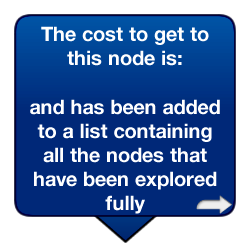
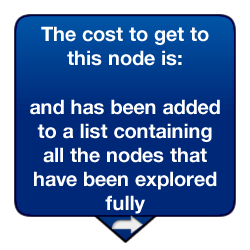
Fixed bug with heuristic in RenderTester

Changed region(s): [[0.784, 0.784, 0.924, 0.868], [0.448, 0.868, 0.588, 0.952]]

diff --git a/core/src/com/b3/gui/RenderTester.java b/core/src/com/b3/gui/RenderTester.java
@@ -16,6 +16,7 @@ import com.badlogic.gdx.math.MathUtils;
 import com.badlogic.gdx.math.Vector2;
 import com.badlogic.gdx.scenes.scene2d.Stage;
 import com.sun.corba.se.impl.naming.cosnaming.NamingUtils;
+import com.sun.xml.internal.ws.server.sei.SEIInvokerTube;
 
 import java.util.ArrayList;
 import java.util.List;
@@ -58,6 +59,7 @@ public class RenderTester {
     private boolean popupShowing;
     private int counterAnimationFade;
     private boolean stickyCurrentNode;
+    private Sprite endNodeDFSBFS;
 
     /**
      * Creates a new pop-up, with an empty canas
@@ -124,6 +126,10 @@ public class RenderTester {
         tempTexture = new Texture("core/assets/world/popups/endnode250x250.JPG_2.png");
         tempTexture.setFilter(Texture.TextureFilter.Linear, Texture.TextureFilter.Linear);
         endNodeSprite[1] = new Sprite(tempTexture);
+
+        tempTexture = new Texture("core/assets/world/popups/endnode250x250DFSBFS.png");
+        tempTexture.setFilter(Texture.TextureFilter.Linear, Texture.TextureFilter.Linear);
+        endNodeDFSBFS = new Sprite(tempTexture);
 
         //Aqua nodes - just added to frontire
         lastFrontierSprite = new Sprite[4];
@@ -213,14 +219,29 @@ public class RenderTester {
         } else
             //DONE MULTI_PAGES if end node
             if (worldGraph.getCurrentSearch().getEnd().getPoint().equals(new Point(currentNodeClickX, currentNodeClickY))) {
-                if (pageNo >= 3) pageNo = 0; //reset to first page if neccessary
+                if (pageNo >= 3 && worldGraph.getCurrentSearch().getAlgorithm() == SearchAlgorithm.A_STAR) pageNo = 0; //reset to first page if neccessary
+                if (pageNo >= 2 && worldGraph.getCurrentSearch().getAlgorithm() != SearchAlgorithm.A_STAR) pageNo = 0; //reset to first page if neccessary
 
                 if (pageNo == 2) {
                     //calculate data needed
-                    float x1 = (float) (worldGraph.getCurrentSearch().getStart().getPoint().getX() + 0.5); float y1 = (float) (worldGraph.getCurrentSearch().getStart().getPoint().getY() + 0.5);
+                    float x1;
+                    float y1;
+                    if (worldGraph.getCurrentSearch().getMostRecentlyExpanded() != null) {
+                        x1 = (float) (worldGraph.getCurrentSearch().getMostRecentlyExpanded().getPoint().getX() + 0.5);
+                        y1 = (float) (worldGraph.getCurrentSearch().getMostRecentlyExpanded().getPoint().getY() + 0.5);
+                    } else {
+                        x1 = (float) (worldGraph.getCurrentSearch().getStart().getPoint().getX() + 0.5);
+                        y1 = (float) (worldGraph.getCurrentSearch().getStart().getPoint().getY() + 0.5);
+                    }
+
                     float x2 = (float) (worldGraph.getCurrentSearch().getEnd().getPoint().getX() + 0.5); float y2 = (float) (worldGraph.getCurrentSearch().getEnd().getPoint().getY() + 0.5);
                     float xCoord = (int) (x1 + x2) / 2; float yCoord = (int) (y1 + y2) / 2;
-                    float cost = calculateEuclidian(worldGraph.getCurrentSearch().getStart(), worldGraph.getCurrentSearch().getEnd());
+                    float cost;
+                    if (worldGraph.getCurrentSearch().getMostRecentlyExpanded() != null) {
+                        cost = calculateEuclidian(worldGraph.getCurrentSearch().getMostRecentlyExpanded(), worldGraph.getCurrentSearch().getEnd());
+                    } else {
+                        cost = calculateEuclidian(worldGraph.getCurrentSearch().getStart(), worldGraph.getCurrentSearch().getEnd());
+                    }
 
                     spriteBatch.end();
                     //draw lines
@@ -246,8 +267,17 @@ public class RenderTester {
                     spriteBatch.begin();
                     spriteBatch.setProjectionMatrix(worldCamera.combined);
                 } else {
-                    spriteBatch.draw(endNodeSprite[pageNo], (float) ((currentNodeClickX - scalingZoom / 2) + 0.5),
+                    if (worldGraph.getCurrentSearch().getAlgorithm() == SearchAlgorithm.A_STAR)
+                        spriteBatch.draw(endNodeSprite[pageNo], (float) ((currentNodeClickX - scalingZoom / 2) + 0.5),
                             (float) (currentNodeClickY + 0.5), scalingZoom, scalingZoom);
+                    else
+                        if (pageNo == 0)
+                            spriteBatch.draw(endNodeDFSBFS, (float) ((currentNodeClickX - scalingZoom / 2) + 0.5),
+                                (float) (currentNodeClickY + 0.5), scalingZoom, scalingZoom);
+                        else
+                            spriteBatch.draw(endNodeSprite[pageNo], (float) ((currentNodeClickX - scalingZoom / 2) + 0.5),
+                                    (float) (currentNodeClickY + 0.5), scalingZoom, scalingZoom);
+
                 }
 
                 popupShowing = true;
@@ -429,8 +459,15 @@ public class RenderTester {
      */
     private void drawHeuristic(float gcost, int currentNodeClickX, int currentNodeClickY, float scalingZoom) {
 
-        float x1 = (float) (worldGraph.getCurrentSearch().getStart().getPoint().getX() + 0.5);
-        float y1 = (float) (worldGraph.getCurrentSearch().getStart().getPoint().getY() + 0.5);
+        float x1;
+        float y1;
+        if (worldGraph.getCurrentSearch().getMostRecentlyExpanded() != null) {
+            x1 = (float) (worldGraph.getCurrentSearch().getMostRecentlyExpanded().getPoint().getX() + 0.5);
+            y1 = (float) (worldGraph.getCurrentSearch().getMostRecentlyExpanded().getPoint().getY() + 0.5);
+        } else {
+            x1 = (float) (worldGraph.getCurrentSearch().getStart().getPoint().getX() + 0.5);
+            y1 = (float) (worldGraph.getCurrentSearch().getStart().getPoint().getY() + 0.5);
+        }
         float x2 = (float) (worldGraph.getCurrentSearch().getEnd().getPoint().getX() + 0.5);
         float y2 = (float) (worldGraph.getCurrentSearch().getEnd().getPoint().getY() + 0.5);
 

diff --git a/core/src/com/b3/input/WorldSelectionHandler.java b/core/src/com/b3/input/WorldSelectionHandler.java
@@ -74,17 +74,12 @@ public class WorldSelectionHandler extends InputAdapter {
 		}
 
 		// Check if node page no. should be incremented or reset to beginning (as clicked on different node)
-		if (currentSelection.x == (int) tempRayCast.x && currentSelection.y == (int) tempRayCast.y
-				|| currentSelection.x + 2 == (int) tempRayCast.x && currentSelection.y +1  == (int) tempRayCast.y
-				) {
+		if (currentSelection.x == (int) tempRayCast.x && currentSelection.y == (int) tempRayCast.y) {
 			//old node so change page number
-			world.setCurrentClick(currentSelection.x, currentSelection.y);
-			if (world.getrt().getPopupShowing()) {
+			if (world.getrt().getPopupShowing())
 				//if popup showing
 				world.getrt().resetCounterAnimation();
-			}
-				world.getrt().flipPageRight();
-			return true;
+			world.getrt().flipPageRight();
 		} else {
 			//new node so reset page number
 			if (world.getrt().getPopupShowing())
